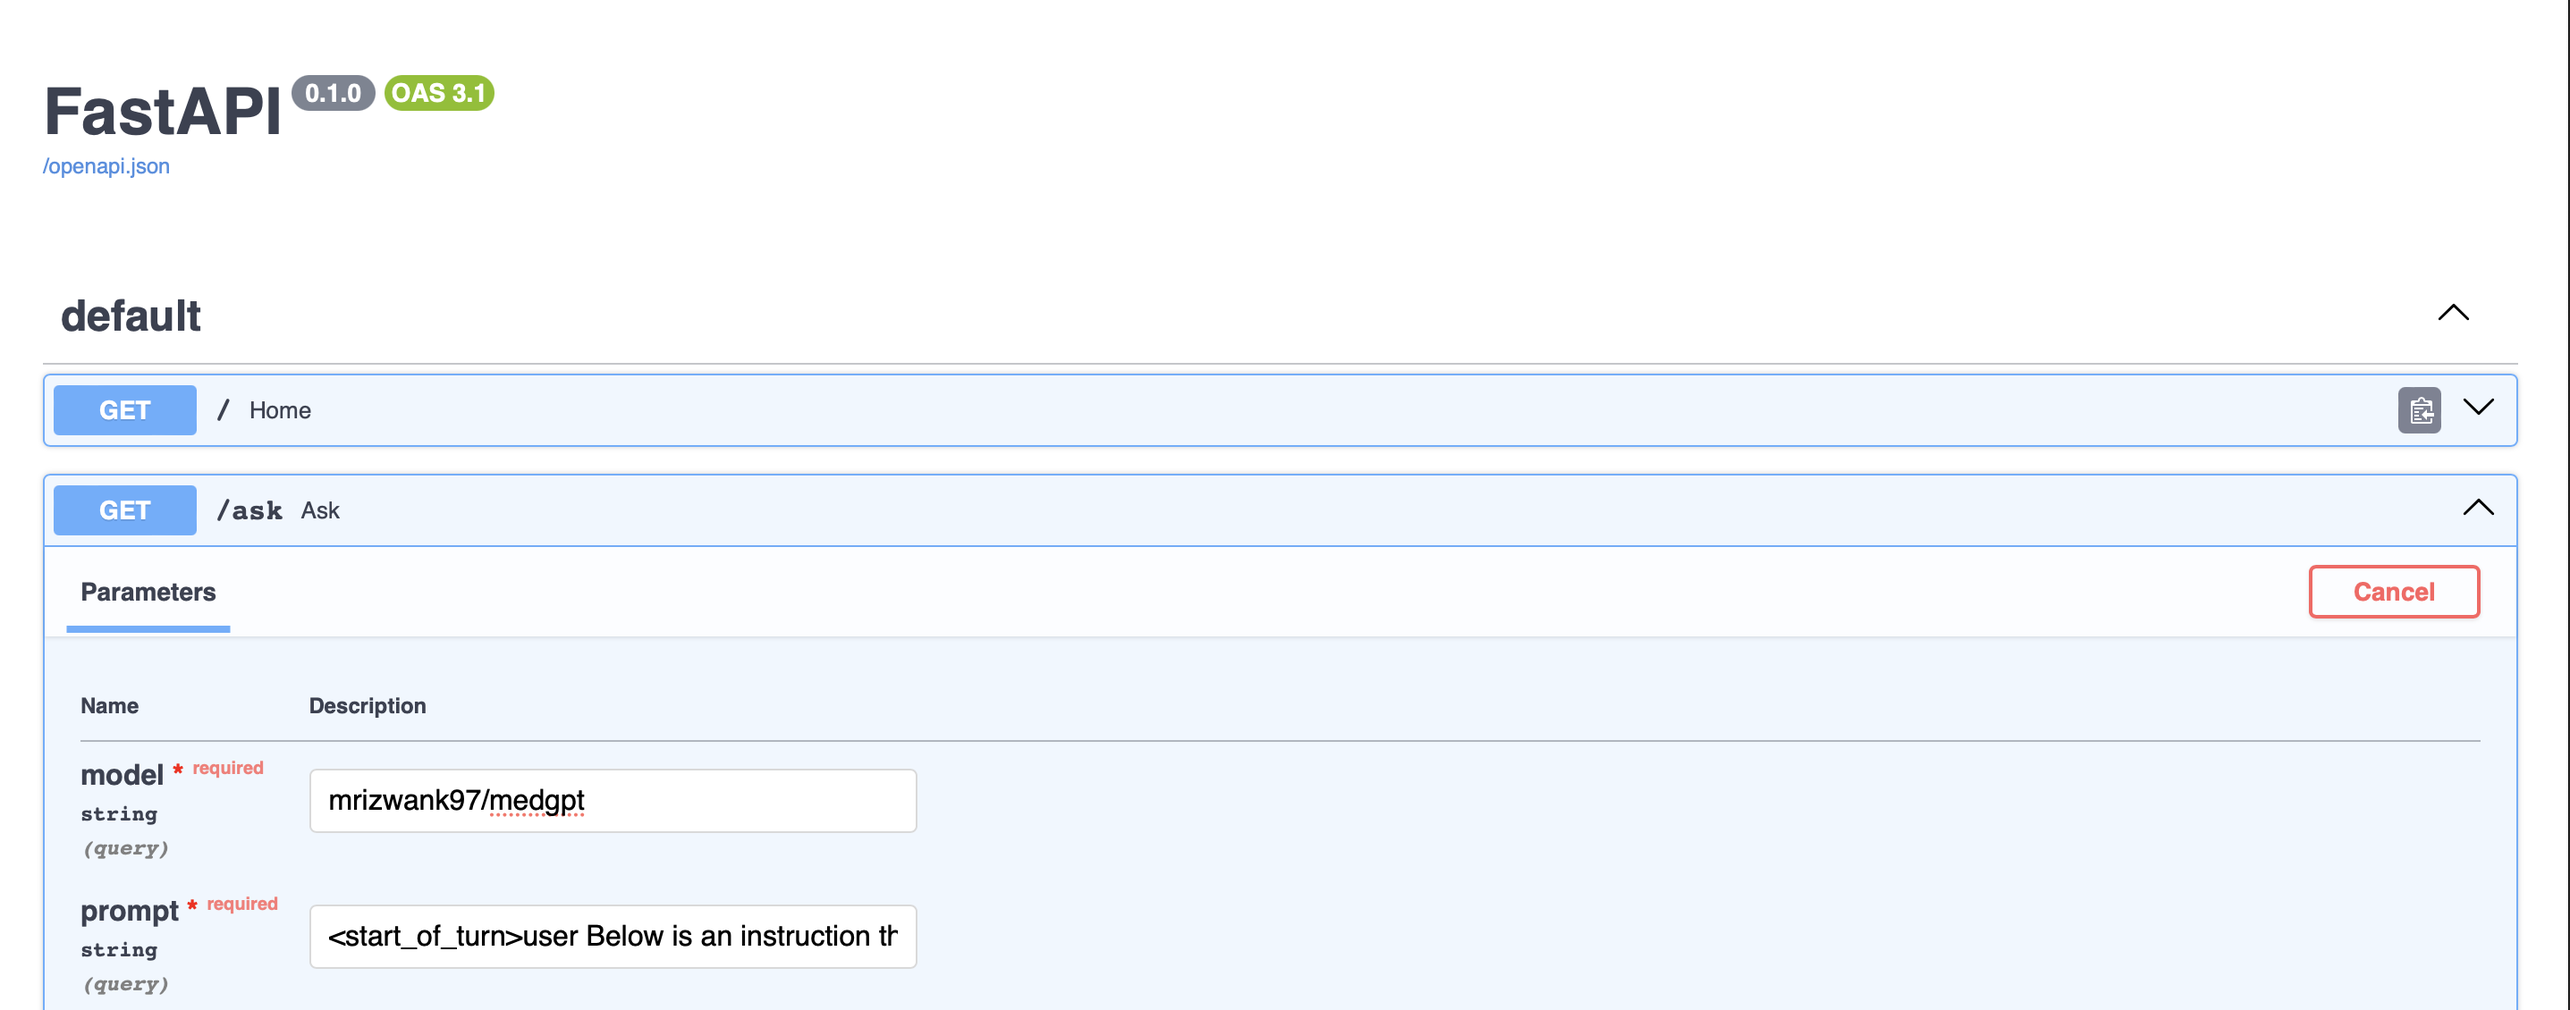
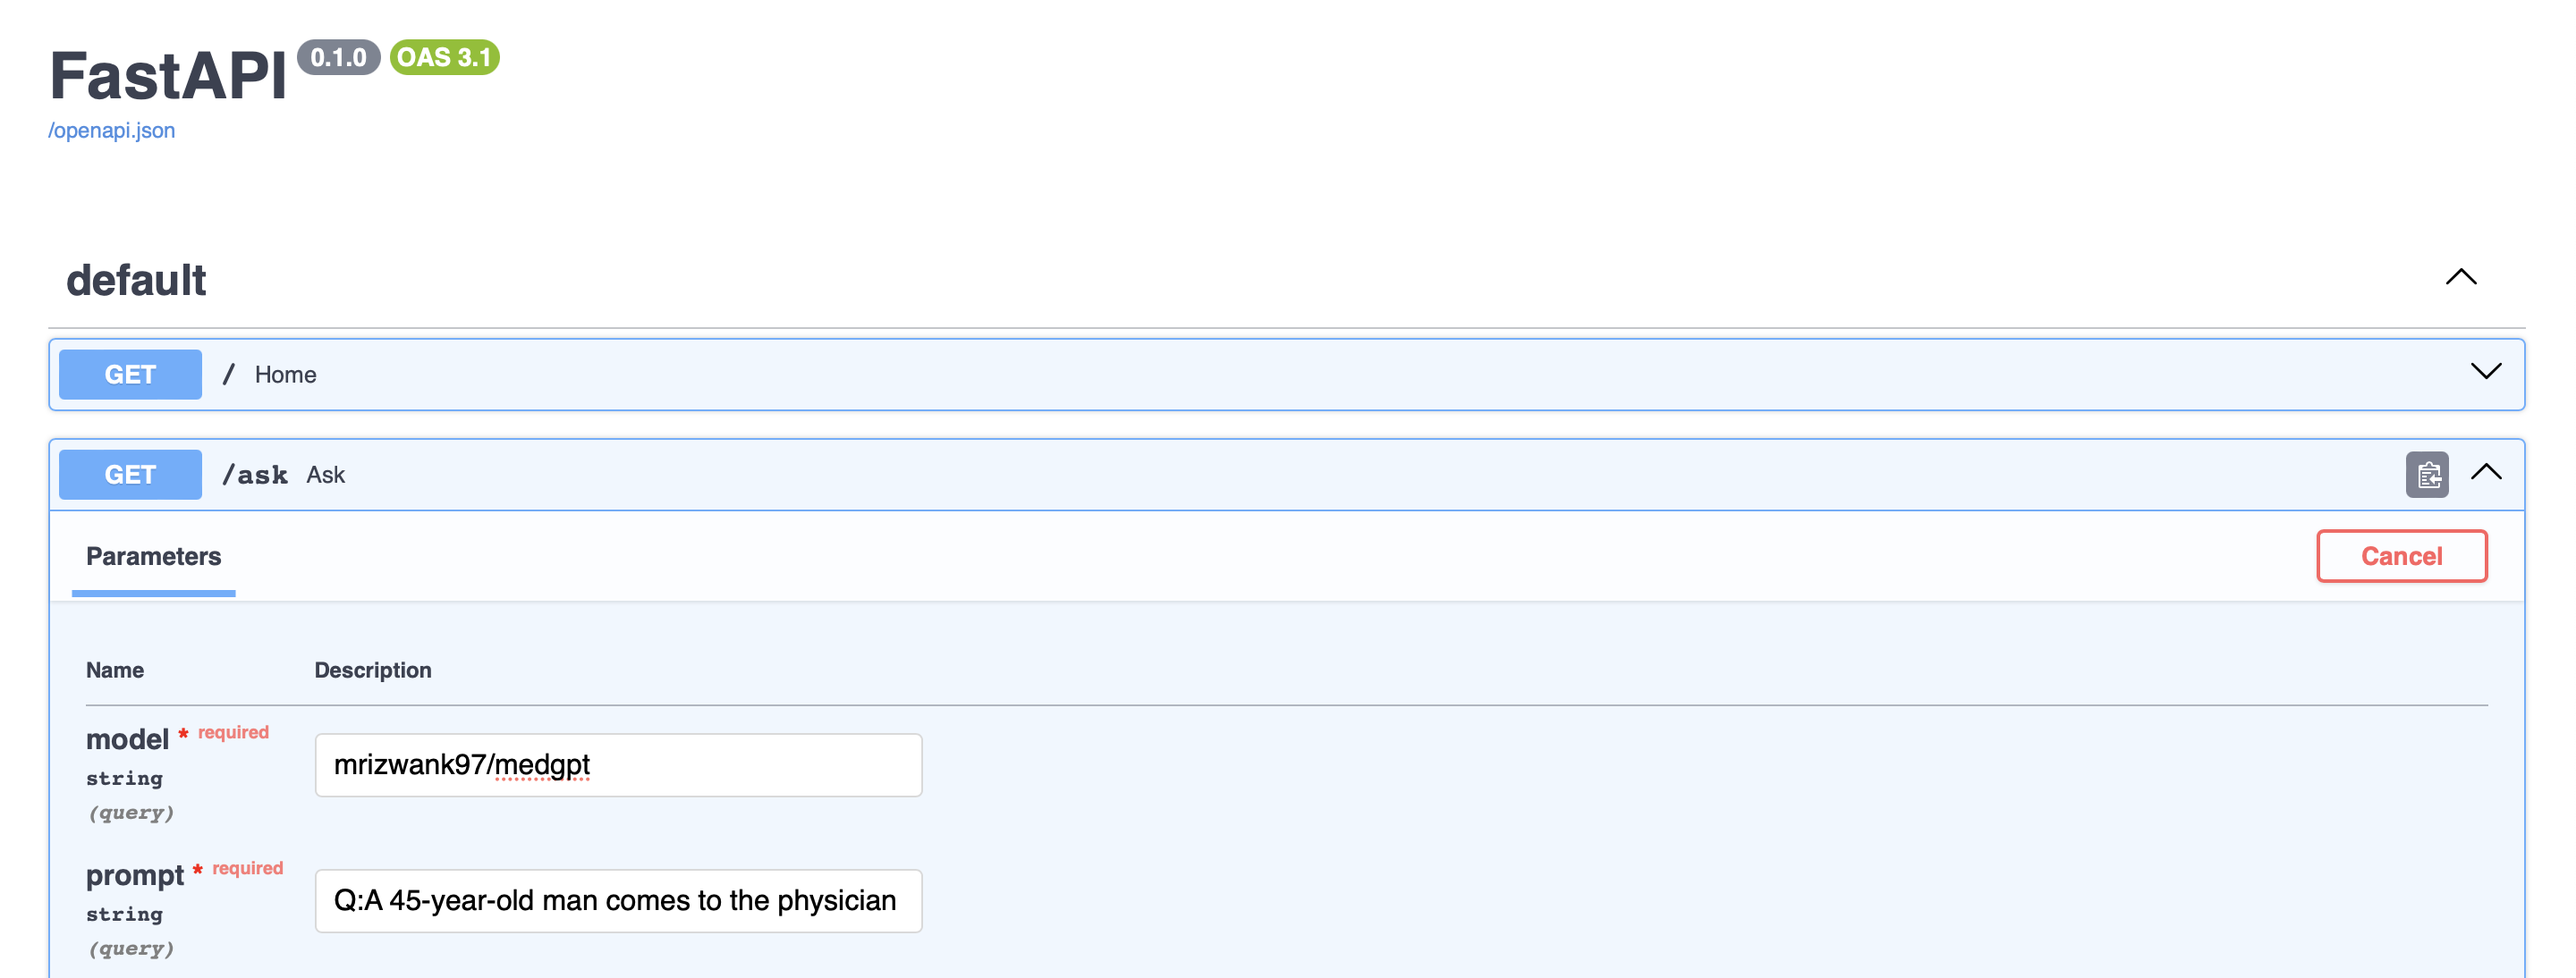
README enhancement

Changed region(s): [[0.0, 0.2486, 0.991, 0.6527], [0.031, 0.6837, 0.96, 0.9945], [0.0, 0.0311, 0.2168, 0.1865]]

diff --git a/README.md b/README.md
@@ -133,9 +133,10 @@ Endpoint:
 -	Method: POST
 -	Description: This endpoint receives a medical case description along with multiple-choice options (a, b, c, d) for diagnosis. The fine-tuned model (Gemma 2, deployed on Ollama) then provides an analysis and predicts the most appropriate diagnosis.
 ## API Demonstration
-- Lets test one medical case:
+- Lets test one medical case below
 ```bash
 Q:A 45-year-old man comes to the physician for the evaluation of difficulty swallowing that has worsened over the past year. He also reports some hoarseness and generalized bone, muscle, and joint pain. During the past six months, he has had progressive constipation and two episodes of kidney stones. He also reports recurrent episodes of throbbing headaches, diaphoresis, and palpitations. He does not smoke or drink alcohol. He takes no medications. His vital signs are within normal limits. Physical examination and an ECG show no abnormalities. Laboratory studies show calcium concentration of 12 mg/dL, phosphorus concentration of 2 mg/dL, alkaline phosphatase concentration of 100 U/L, and calcitonin concentration of 11 pg/mL (N < 8.8). Ultrasonography of the neck shows hypoechoic thyroid lesions with irregular margins and microcalcifications. Which of the following is the most likely underlying cause of this patient's condition??  {'A': 'Mutated NF1 gene', 'B': 'Exposure to ionizing radiation', 'C': 'Deleted VHL gene', 'D': 'Altered RET proto-oncogene expression', 'E': 'Disrupted menin protein function'}
 ```
+- if you look at the output, the model correctly predicted D option. It can be verified from ```bash app/dataset/test_data_gemma.csv```. This is the first row of from the csv file. 
 ![Alt text](images/fastapi1.png)
 ![Alt text](images/fastapi2.png)
